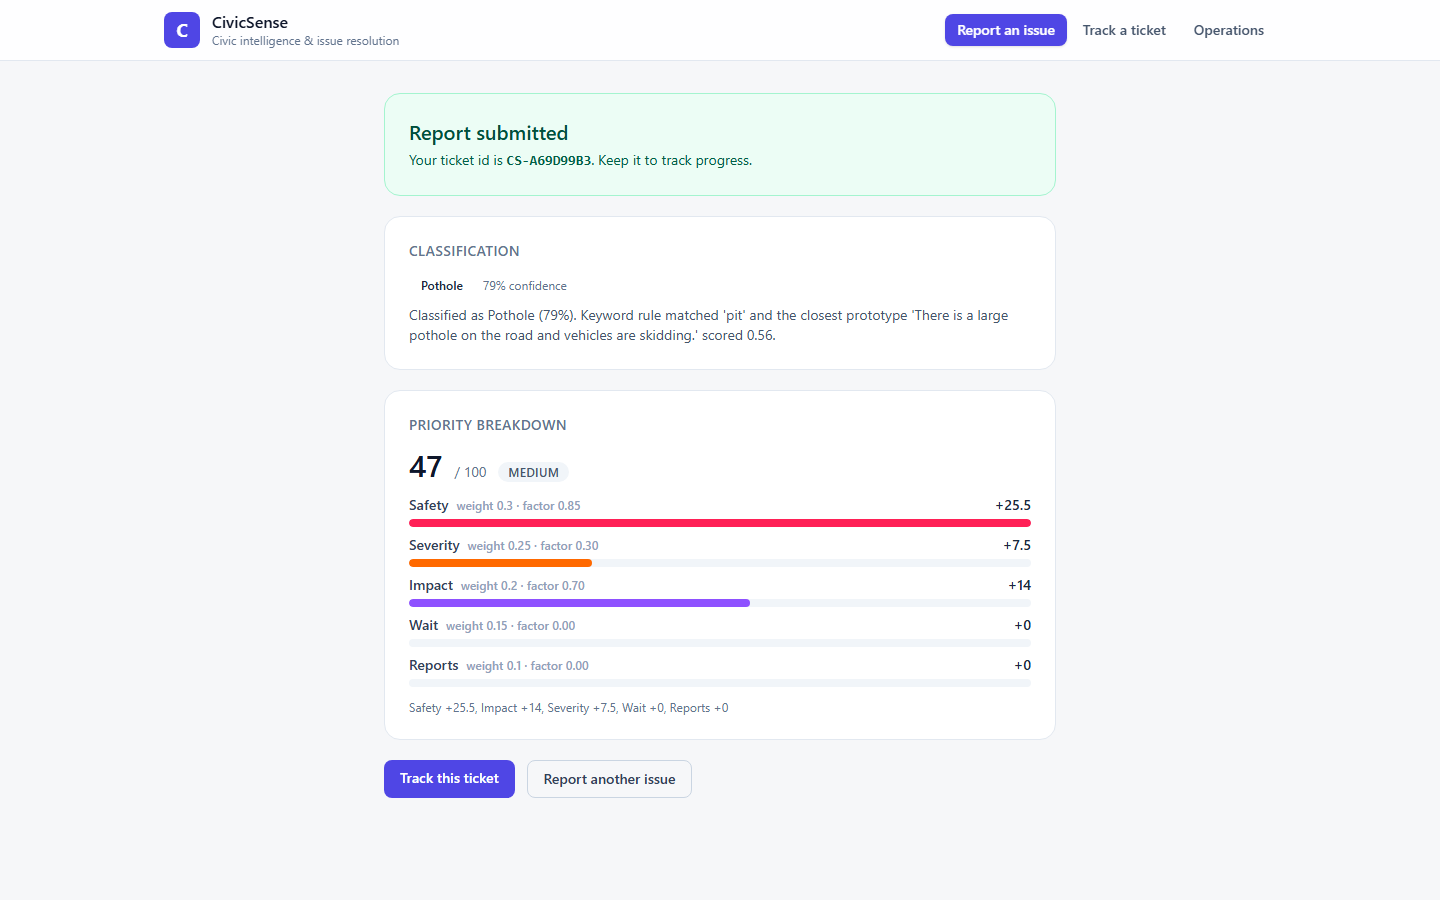
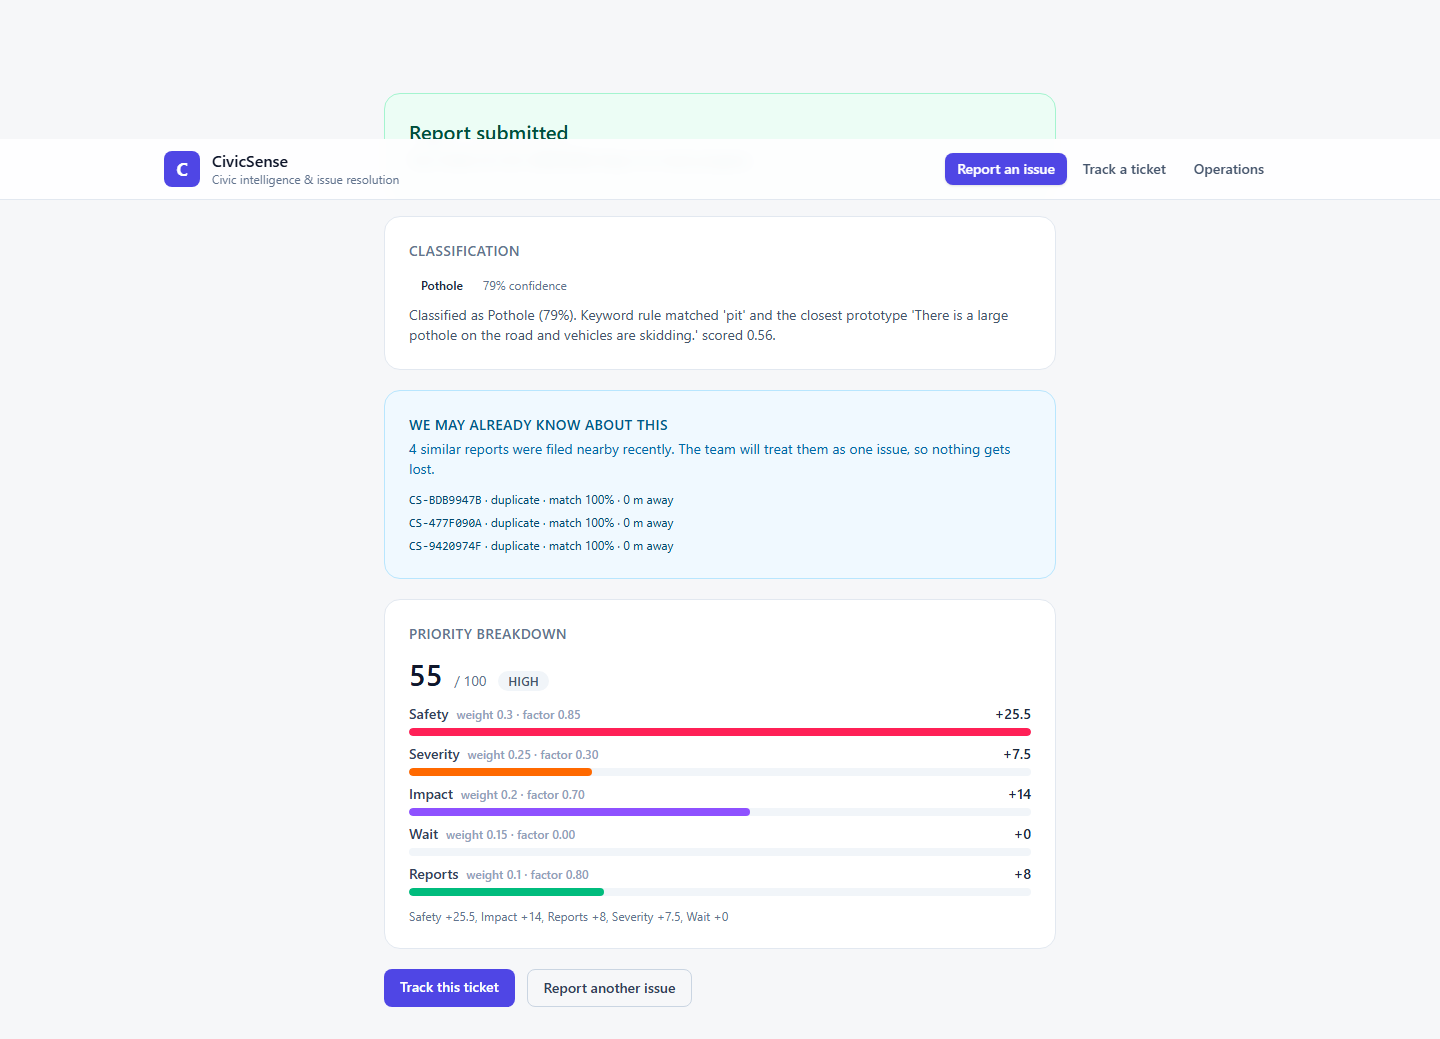
Fix the launcher, database detection and API health checks
The admin sign in failed because nothing reported the real state of the
stack: the database was down, the launcher believed it was up and the
API answered 200 while every request that touched the database hung.

- local-db.ps1: resolve the PostgreSQL binaries wherever they live, treat
  an already running server as success, drop a stale postmaster.pid before
  starting, create the database only when it is missing and stop psql
  noise from aborting the script
- run.bat: probe the database, the API and the web app with real checks
  instead of guessing, start what is missing, and fail with a clear
  message when the database cannot be started
- API: /health now queries the database and reports degraded when it is
  unreachable, and the engine fails fast with a connect timeout instead of
  hanging a request
- web: a request that never reaches the API now explains that the backend
  is down instead of showing "Failed to fetch"
- ui-check: the status change check used a row that was already resolved
  and got a 409, and the first submission had to wait for the model to
  load

diff --git a/frontend/src/api.ts b/frontend/src/api.ts
@@ -35,13 +35,22 @@ async function request<T>(path: string, options: RequestInit = {}): Promise<T> {
     headers.set("X-Actor-Id", "reporter");
   }
 
-  const response = await fetch(`${BASE}${path}`, {
-    ...options,
-    headers,
-    // Always read the current state of the database: a report added or
-    // removed on the server has to show up on the next refresh.
-    cache: "no-store",
-  });
+  let response: Response;
+  try {
+    response = await fetch(`${BASE}${path}`, {
+      ...options,
+      headers,
+      // Always read the current state of the database: a report added or
+      // removed on the server has to show up on the next refresh.
+      cache: "no-store",
+    });
+  } catch {
+    // The request never reached the server.
+    throw new ApiError(
+      0,
+      "Cannot reach the API. Is the backend running? Start it with scripts\\run.bat",
+    );
+  }
   if (!response.ok) {
     let detail = `${response.status} ${response.statusText}`;
     try {

diff --git a/backend/app/main.py b/backend/app/main.py
@@ -4,8 +4,10 @@ from __future__ import annotations
 
 from fastapi import FastAPI
 from fastapi.middleware.cors import CORSMiddleware
+from sqlalchemy import text
 
 from . import config
+from .db import engine
 from .routers import auth, complaints, tickets
 
 app = FastAPI(
@@ -29,4 +31,20 @@ app.include_router(tickets.router)
 
 @app.get("/health")
 def health() -> dict:
-    return {"status": "ok", "model_version": config.MODEL_VERSION}
+    """Liveness plus a real database check.
+
+    A green health response has to mean the app can actually serve traffic, so
+    the database is pinged here instead of trusting that the process is up.
+    """
+    database = "ok"
+    try:
+        with engine.connect() as conn:
+            conn.execute(text("SELECT 1"))
+    except Exception as exc:  # the database may be down
+        database = f"unavailable: {exc.__class__.__name__}"
+    status = "ok" if database == "ok" else "degraded"
+    return {
+        "status": status,
+        "database": database,
+        "model_version": config.MODEL_VERSION,
+    }

diff --git a/backend/app/db.py b/backend/app/db.py
@@ -15,6 +15,8 @@ engine = create_engine(
     pool_size=5,
     max_overflow=10,
     future=True,
+    # Fail fast when the database is down instead of hanging the request.
+    connect_args={"connect_timeout": 5},
 )
 
 SessionLocal = sessionmaker(bind=engine, autoflush=False, expire_on_commit=False)
